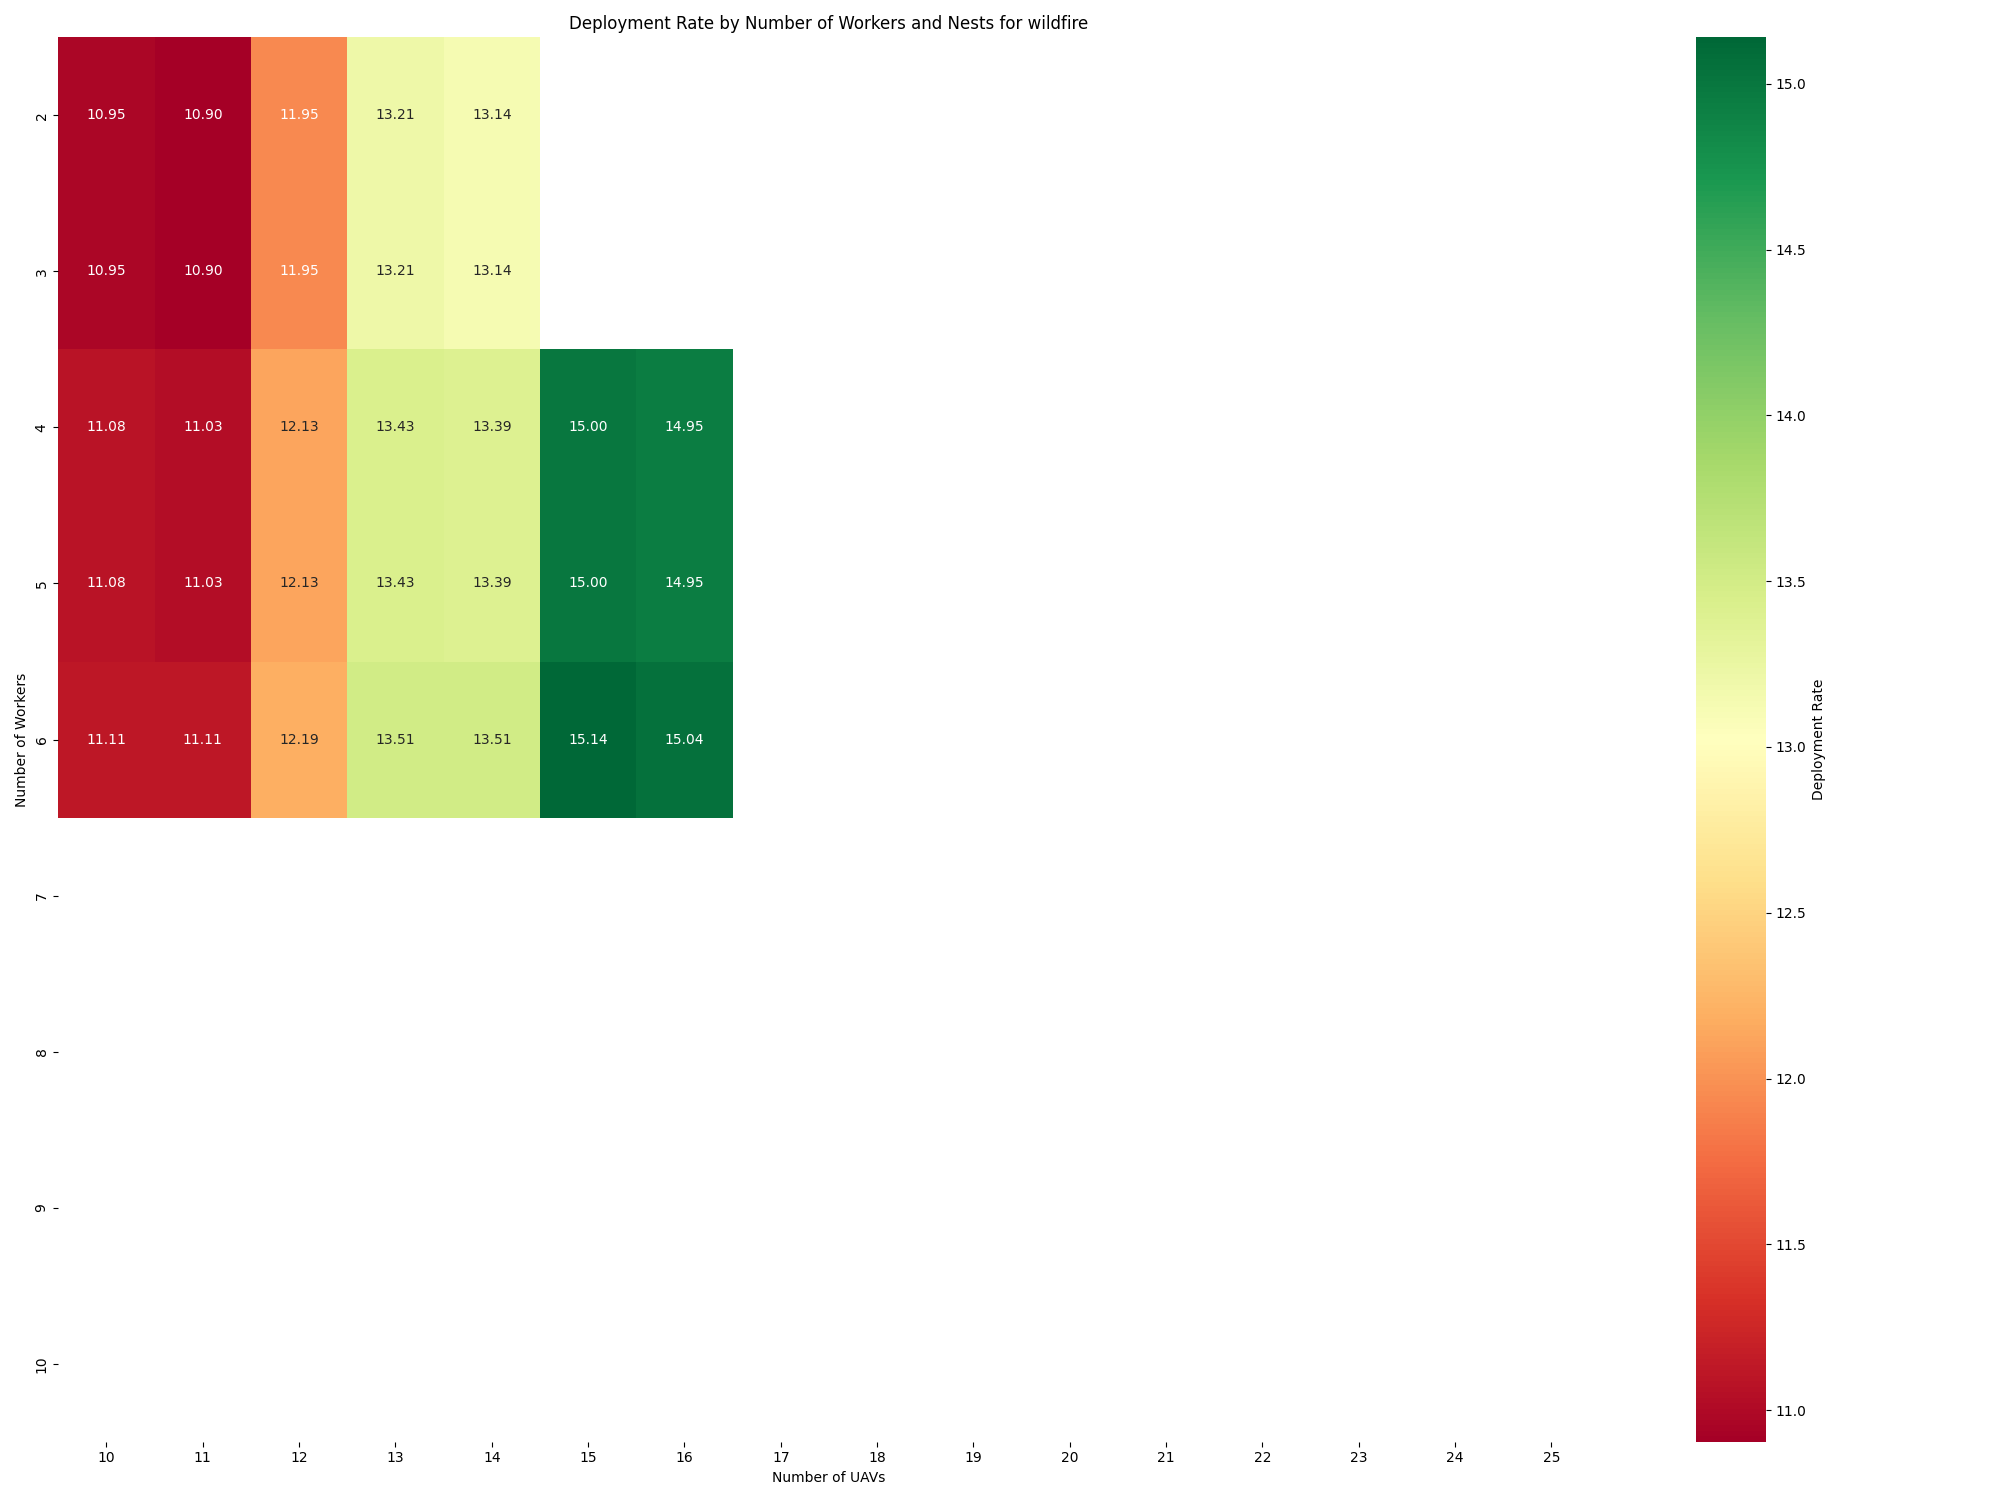
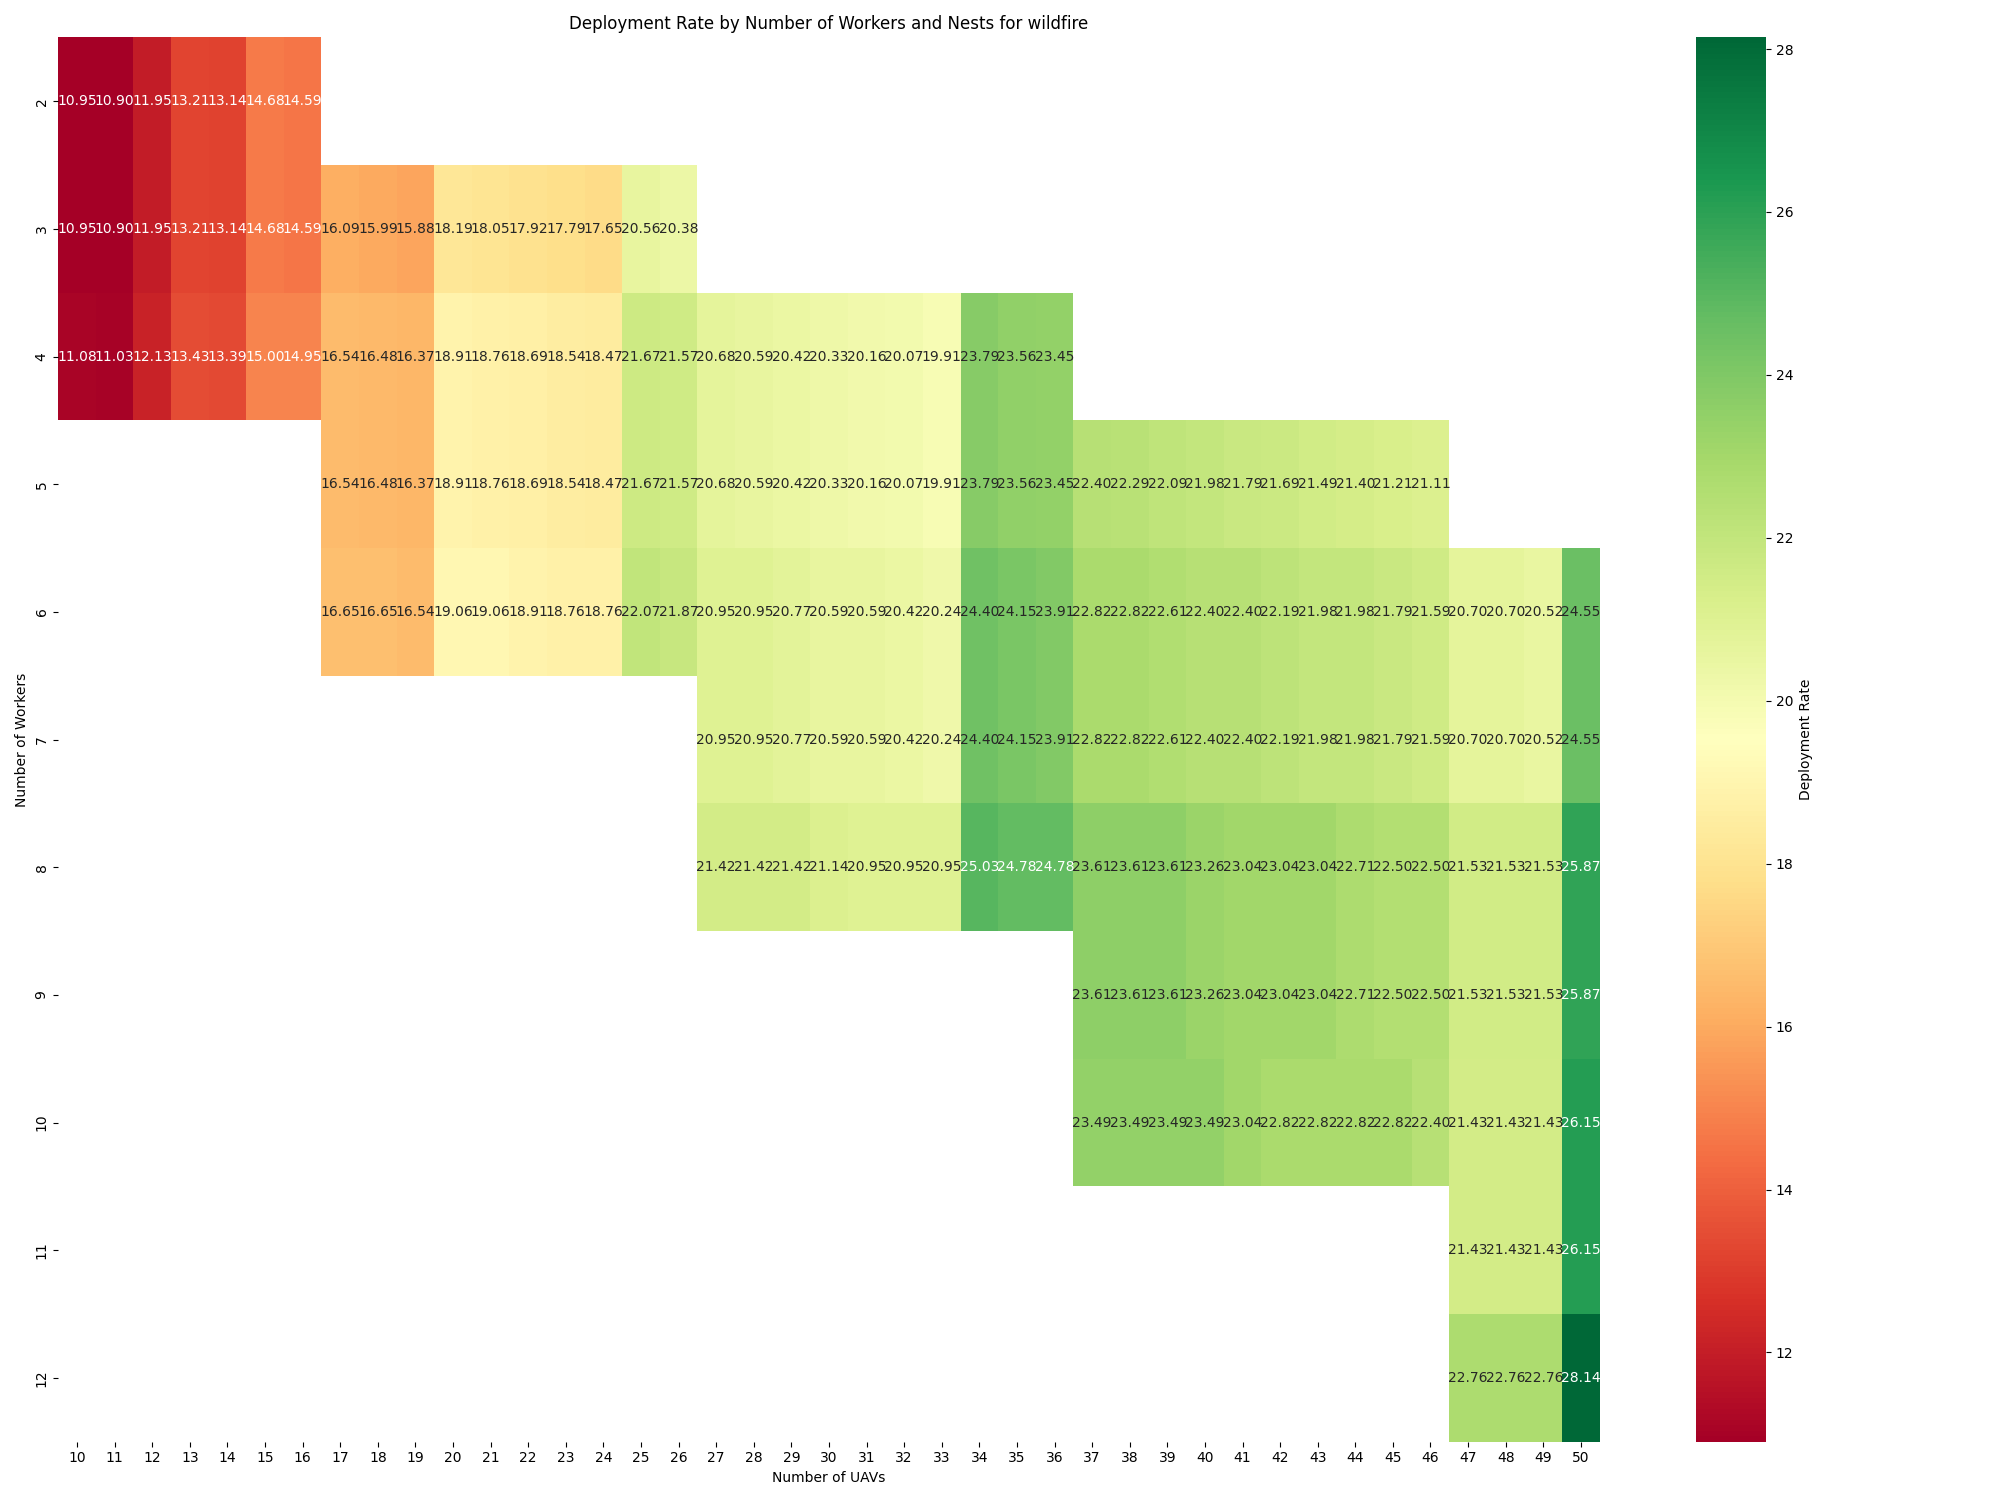
wawawa

diff --git a/DetailedDesign/performance.py b/DetailedDesign/performance.py
@@ -86,8 +86,8 @@ class Performance:
                     mis = Mission(self.inputs)
                     mis.oil_mass = m
                     mis.mission_type = 'oil_spill'
-                    print(self.n_uavs, self.n_nests, self.n_workers)
                     res, _ = mis.performance_calcs(r, self.n_uavs, self.n_nests, self.n_workers)
+                    res = m / (res/60/60)
                     dep_range.append(res)
                     grid.append((r, m))
                     print(r, m, res)
@@ -100,21 +100,21 @@ class Performance:
             X, Y = np.meshgrid(range_vals, oil_vals)  # X: range, Y: AR
 
             plt.figure(figsize=(8, 6))
-            cp = plt.contourf(X, Y, Z, cmap='plasma')
-            plt.colorbar(cp, label='deployment_rate [kg/s]')
+            cp = plt.pcolormesh(X, Y, Z, cmap='plasma')
+            plt.colorbar(cp, label='deployment_rate [kg/h]')
             plt.xlabel('Range [m]')
             plt.ylabel('oil mass [kg]')
             plt.savefig('DetailedDesign\plots\oil_range.png')
             plt.show()
             
 
+            '''
             #Deployment range based on nr_nests and nr_workers
-            uavs_range = range(10, 26)
-            workers_range = range(2, 11)
+            uavs_range = range(10, 51)
+            workers_range = range(2, 13)
 
             uav_worker_table = pd.DataFrame(index=workers_range, columns=uavs_range, dtype=float)
 
-            #6 in the generator one, 10 in the general one
 
             for strat in ['oil_spill', 'wildfire']:
                 for workers in workers_range:
@@ -127,7 +127,7 @@ class Performance:
                         if strat == 'oil_spill':
                             uav_worker_table.loc[workers, uavs] = self.oil_mass / dep_time
                         else:
-                            if nests <= workers <= 2 * self.n_nests:
+                            if nests <= workers <= 2 * nests:
                                 uav_worker_table.loc[workers, uavs] = self.mission_perimeter / dep_time
                             else:
                                 uav_worker_table.loc[workers, uavs] = np.nan
@@ -140,6 +140,7 @@ class Performance:
                 plt.tight_layout()
                 plt.savefig(f"DetailedDesign\plots\{strat}_worker_nest_heatmap.png")
                 plt.show()   
+                '''
 
 
 

diff --git a/DetailedDesign/mission.py b/DetailedDesign/mission.py
@@ -372,12 +372,13 @@ class Mission:
         self.calc_time_operation()
         #self.calc_time_wrapup()
 
-        if self.time_uav < self.time_preparation - self.time_startup_nest:
-            self.total_mission_time = np.nan
-            # raise ValueError(f"UAV mission time ({self.time_uav}) is less than preparation time, so UAVs will overlap. Check inputs.")
-        else:
-            total_mission_time = self.time_preparation + self.time_operation #+ self.time_wrapup
-            self.total_mission_time = total_mission_time
+        # if self.time_uav < self.time_preparation - self.time_startup_nest:
+        #     print(self.time_uav/60/60, self.time_preparation/60/60, self.time_startup_nest/60/60)
+        #     self.total_mission_time = np.nan
+        #     # raise ValueError(f"UAV mission time ({self.time_uav}) is less than preparation time, so UAVs will overlap. Check inputs.")
+        # else:
+        total_mission_time = self.time_preparation + self.time_operation #+ self.time_wrapup
+        self.total_mission_time = total_mission_time
 
         # if self.UAV_launch_time > self.time_turnaround + self.margin:
         #     pass # ADD MARGIN STUFF
@@ -469,7 +470,7 @@ if __name__ == '__main__':
     test_inputs_mission.update(deployment_funny_inputs)
 
     mission = Mission(test_inputs_mission)
-    mission.performance_calcs(20000, 20, 3, 6)
+    print(mission.performance_calcs(20000, 20, 3, 6), mission.num_trips)
 
 
     
